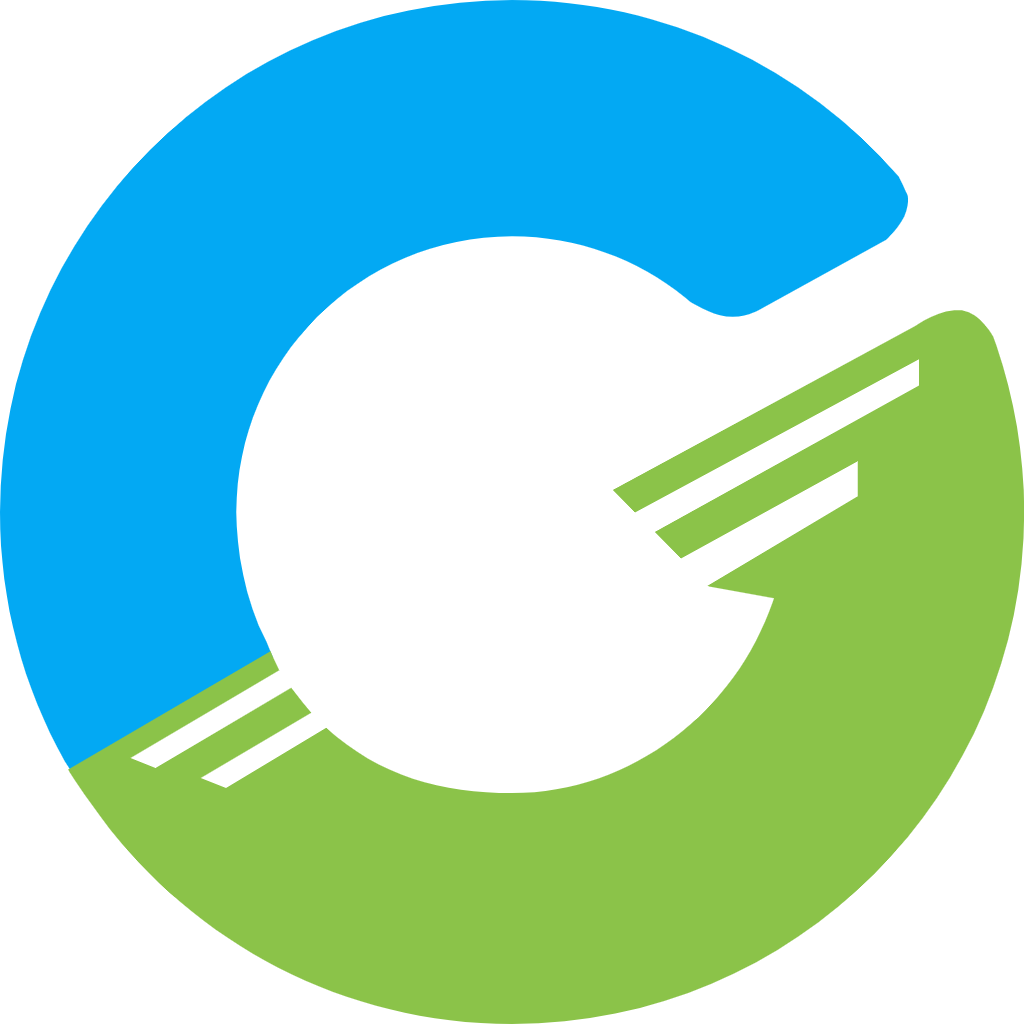
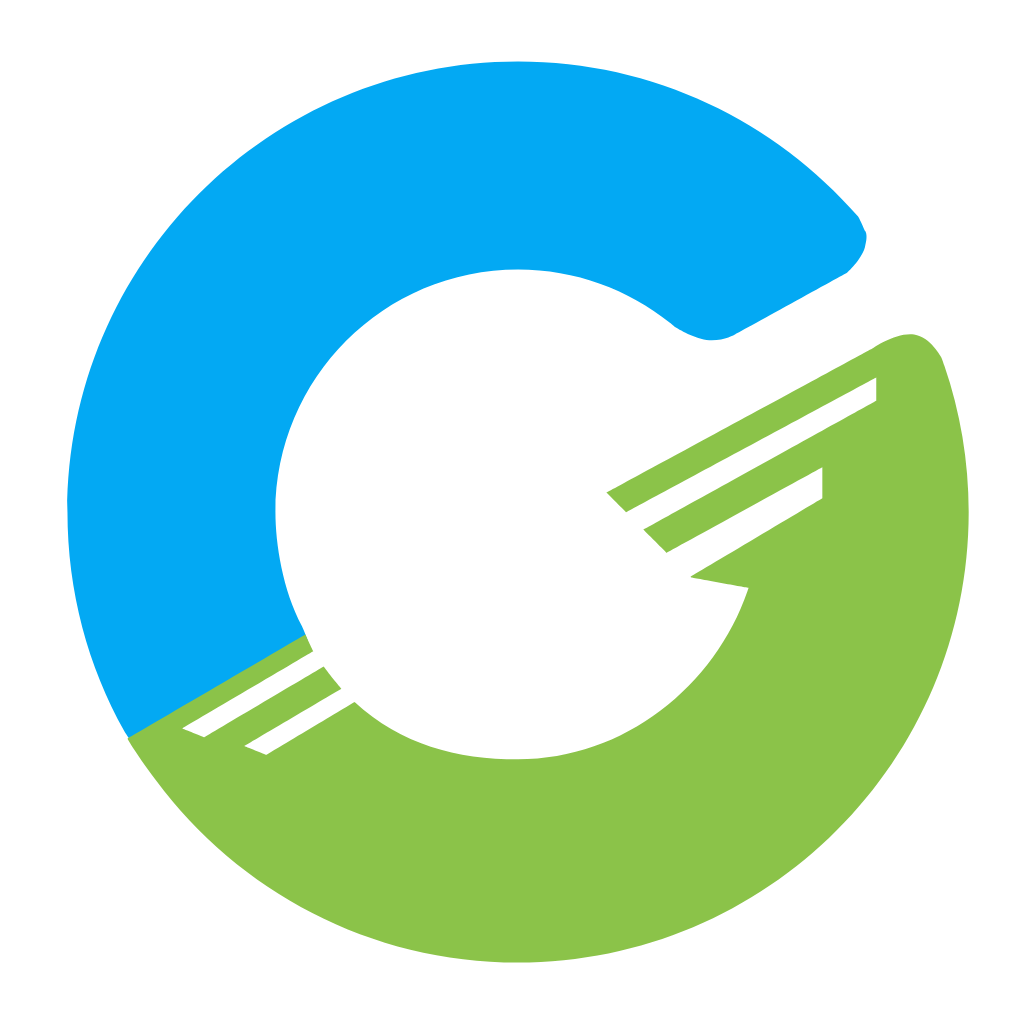
splash screen added

Changed region(s): [[0.0, 0.0, 1.0, 1.0]]

diff --git a/lib/widgets/screens/ProductViewerScreen.dart b/lib/widgets/screens/ProductViewerScreen.dart
@@ -136,8 +136,6 @@ class _ProductViewerScreenState extends State<ProductViewerScreen> {
                         RaisedButton.icon(onPressed: _openSignUpTimeSlotSelector, color: Colors.blueAccent, shape: RoundedRectangleBorder(borderRadius: BorderRadius.all(Radius.circular(10.0))), icon: Icon(Icons.app_registration, color: Colors.white), label: Text(Locale.get("Sign up"), style: TextStyle(color: Colors.white, fontWeight: FontWeight.bold))),
                       ],
                     )),
-              if (_contents.isNotEmpty)
-                for (var content in _contents) _buildContentWidget(content),
               if (isFile)
                 Container(
                     margin: EdgeInsets.only(top: 20.0, left: 30.0, right: 30.0),
@@ -145,7 +143,7 @@ class _ProductViewerScreenState extends State<ProductViewerScreen> {
               if (isFile)
                 Container(
                     margin: EdgeInsets.only(top: 20.0, left: 30.0, right: 30.0),
-                    child: RaisedButton.icon(onPressed: _viewProductPressed, color: Colors.blueAccent, shape: RoundedRectangleBorder(borderRadius: BorderRadius.all(Radius.circular(10.0))), icon: Icon(Icons.play_circle_fill, color: Colors.white), label: Text("VIEW/DOWNLOAD  PRODUCT", style: TextStyle(color: Colors.white, fontWeight: FontWeight.bold)))),
+                    child: RaisedButton.icon(onPressed: _viewProductPressed, color: Colors.blueAccent, shape: RoundedRectangleBorder(borderRadius: BorderRadius.all(Radius.circular(10.0))), icon: Icon(Icons.play_circle_fill, color: Colors.white), label: Text("PRODUCT CONTENT", style: TextStyle(color: Colors.white, fontWeight: FontWeight.bold)))),
               Container(
                   margin: EdgeInsets.only(top: 20.0, left: 30.0, right: 30.0),
                   child: RaisedButton.icon(onPressed: _openProductReview, color: Colors.blueAccent, shape: RoundedRectangleBorder(borderRadius: BorderRadius.all(Radius.circular(10.0))), icon: Icon(Icons.rate_review, color: Colors.white), label: Text(Locale.get("Review"), style: TextStyle(color: Colors.white, fontWeight: FontWeight.bold)))),
@@ -191,28 +189,6 @@ class _ProductViewerScreenState extends State<ProductViewerScreen> {
   void _onContentPressed(Content content) async {
     // Navigator.push(context, MaterialPageRoute(builder: (context) => ProductContentViewerScreen(fileName)));
     Navigator.push(context, MaterialPageRoute(builder: (context) => DriveContentViewer(content)));
-  }
-
-  Widget _buildContentWidget(Content content) {
-    return GestureDetector(
-        onTap: () => _onContentPressed(content),
-        child: Card(
-            margin: EdgeInsets.only(top: 10.0),
-            child: Container(
-                padding: EdgeInsets.all(10.0),
-                child: Row(
-                  children: [
-                    Icon(getFileTypeIconForFilename(content.title), color: Colors.black87, size: 30.0),
-                    Padding(
-                      padding: const EdgeInsets.only(left: 8.0),
-                      child: Text(
-                        content.title,
-                        maxLines: 10,
-                        style: TextStyle(fontWeight: FontWeight.bold, fontSize: 16.0, color: Colors.blueAccent),
-                      ),
-                    ),
-                  ],
-                ))));
   }
 
   Future<void> loadContents() async {

diff --git a/lib/widgets/screens/ProductPurchaseScreen.dart b/lib/widgets/screens/ProductPurchaseScreen.dart
@@ -41,7 +41,7 @@ class _ProductPurchaseScreenState extends State<ProductPurchaseScreen> {
             child: Column(
               mainAxisAlignment: MainAxisAlignment.center,
               children: [
-                Image.asset('assets/globens_icon.png'),
+                Image.asset('assets/globens_icon.png', width: 200,),
                 Container(
                   padding: EdgeInsets.fromLTRB(0.0, 30.0, 0.0, 0.0),
                   child: Text('Please wait...', style: TextStyle(fontSize: 20.0)),

diff --git a/lib/widgets/screens/RootTabsScreen.dart b/lib/widgets/screens/RootTabsScreen.dart
@@ -51,7 +51,7 @@ class RootTabsScreenState extends State<RootTabsScreen> with WidgetsBindingObser
           BottomNavigationBarItem(
             label: 'Globens',
             icon: Image.asset(
-              'assets/globens_icon.png',
+              'assets/globens_icon_transparent_bg.png',
               width: 25,
             ),
           ),
